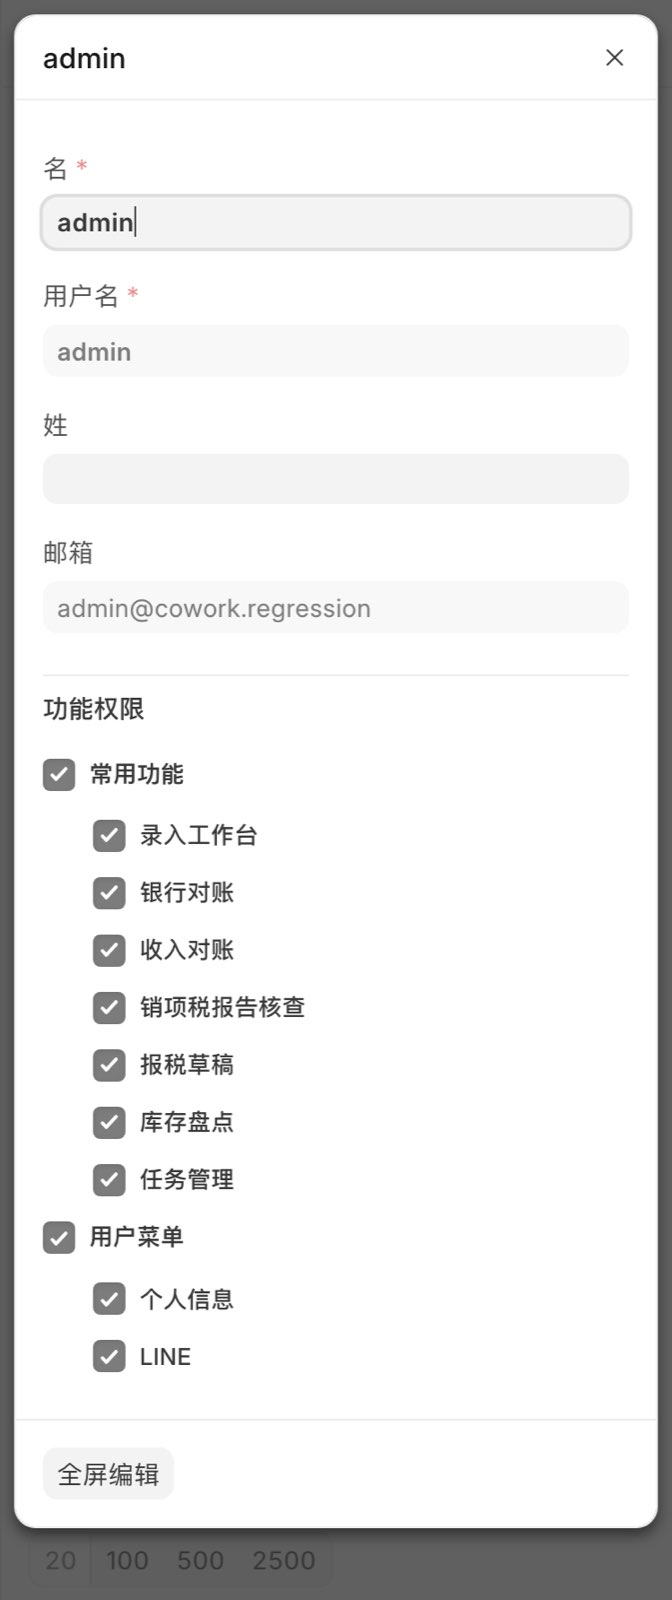
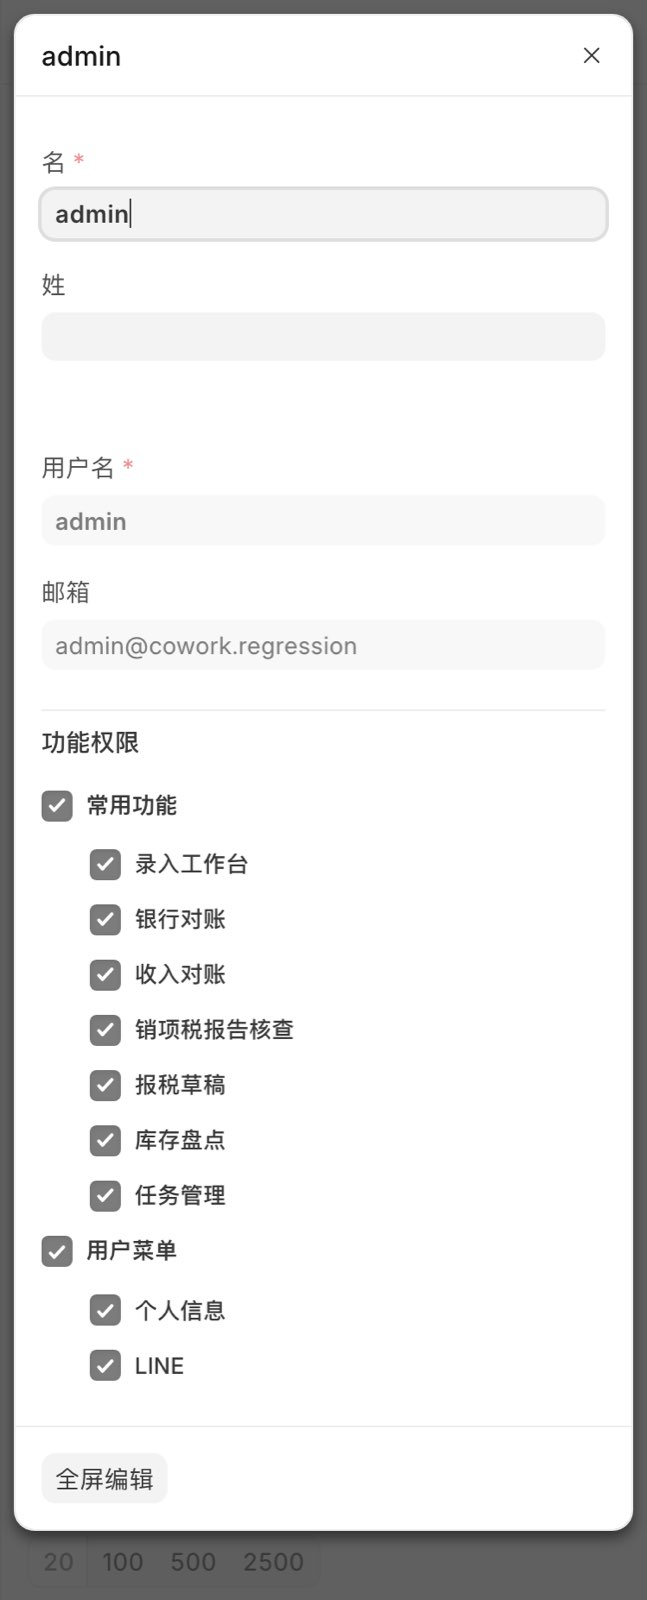
fix: the add user dialog keeps each pair in its own borderless section so phones stack first and last name, then username and password; the layout check now requires side by side pairs to stay adjacent when stacked

diff --git a/apps/pearnly_erp_portal/pearnly_erp_portal/public/desk/team.js b/apps/pearnly_erp_portal/pearnly_erp_portal/public/desk/team.js
@@ -199,18 +199,24 @@
 			const shown_companies = locked ? (data.companies || []).map(c => c.value) : row?.companies || [];
 			let dialog;
 			const fields = [
-				// 两栏成行（用户 10-31）：名 | 姓，用户名 | 初始密码；邮箱放右栏末尾——编辑时没有密码，左右仍各两格（11-01）
+				// 两栏成行（用户 10-31）：名 | 姓，用户名 | 初始密码（编辑时是 用户名 | 邮箱），邮箱在下。
+				// 每一对各占一节（无边框）：手机上叠成单列时也是名、姓、用户名、密码挨着（11-01 真机验收：原来名姓被拆开）。
 				// 姓名（用户 10-30：分清是哪个人）：名必填、姓可空，全站显示人名用它
 				field("first_name", "First Name", "Data", { reqd: 1, default: row?.first_name || "" }),
+				{ fieldtype: "Column Break" },
+				field("last_name", "Last Name", "Data", { default: row?.last_name || "" }),
+				{ fieldtype: "Section Break", hide_border: 1 },
 				// 用户名：**英文和数字**（用户 2026-09-24 的口径），是登录名（和邮箱一样能登）。
 				// 长度不设限；服务端还会再按"只允许英文数字 + 不重名"挡一次。
 				field("username", "Username", "Data",
 					{ reqd: 1, read_only: is_new ? 0 : 1, default: row?.username || "" }),
 				{ fieldtype: "Column Break" },
-				field("last_name", "Last Name", "Data", { default: row?.last_name || "" }),
-				...(is_new ? [field("password", "team.password", "Password", { reqd: 1 })] : []),
+				...(is_new ? [field("password", "team.password", "Password", { reqd: 1 }),
+					{ fieldtype: "Section Break", hide_border: 1 }] : []),
 				field("email", "team.email", "Data",
 					{ options: "Email", read_only: is_new ? 0 : 1, default: row?.email || "" }),
+				// 新建时邮箱单独一行：补一栏空的，宽度与上面两行的左栏一样（同 `p.field_grid` 的做法）
+				...(is_new ? [{ fieldtype: "Column Break" }] : []),
 				...roles_fields(shown_roles, () => dialog),
 				{fieldtype: "Section Break"},
 				...company_search_field(),

diff --git a/apps/pearnly_cowork/pearnly_cowork/public/desk/team.js b/apps/pearnly_cowork/pearnly_cowork/public/desk/team.js
@@ -126,16 +126,22 @@
 			const shown_roles = locked ? data.roles.map(role => role.name) : row?.roles || [];
 			let dialog;
 			const fields = [
-				// 两栏成行（用户 10-31）：名 | 姓，用户名 | 初始密码；邮箱放右栏末尾——编辑时没有密码，左右仍各两格（11-01）
+				// 两栏成行（用户 10-31）：名 | 姓，用户名 | 初始密码（编辑时是 用户名 | 邮箱），邮箱在下。
+				// 每一对各占一节（无边框）：手机上叠成单列时也是名、姓、用户名、密码挨着（11-01 真机验收：原来名姓被拆开）。
 				// 姓名（用户 10-30）：名必填、姓可空，全站显示人名用它
 				field("first_name", __("First Name"), "Data", { reqd: 1, default: row?.first_name || "" }),
+				{ fieldtype: "Column Break" },
+				field("last_name", __("Last Name"), "Data", { default: row?.last_name || "" }),
+				{ fieldtype: "Section Break", hide_border: 1 },
 				field("username", __("Username"), "Data",
 					{ reqd: 1, read_only: is_new ? 0 : 1, default: row?.username || "" }),
 				{ fieldtype: "Column Break" },
-				field("last_name", __("Last Name"), "Data", { default: row?.last_name || "" }),
-				...(is_new ? [field("password", t("cowork.team.password"), "Password", { reqd: 1 })] : []),
+				...(is_new ? [field("password", t("cowork.team.password"), "Password", { reqd: 1 }),
+					{ fieldtype: "Section Break", hide_border: 1 }] : []),
 				field("email", t("cowork.team.email"), "Data",
 					{ options: "Email", read_only: is_new ? 0 : 1, default: row?.email || "" }),
+				// 新建时邮箱单独一行：补一栏空的，宽度与上面两行的左栏一样（同 `p.field_grid` 的做法）
+				...(is_new ? [{ fieldtype: "Column Break" }] : []),
 				...roles_fields(shown_roles, () => dialog),
 			];
 			for (const item of fields) {

diff --git a/scripts/check-form-layout.py b/scripts/check-form-layout.py
@@ -13,7 +13,8 @@ docs/work/2026-11-01-form-layout-audit.md：每栏放一类、各栏长度接近
 报哪几类（按 Section 算；隐藏字段不算；行高按字段类型估：多行文本、表格算多行，带说明的加一点，带 depends_on 的算半格）：
 - `columns`：一个 Section 超过三栏（电脑宽每栏太窄、手机上又拉得很长）；
 - `balance`：两栏以上、最长一栏比最短一栏多出 LIMIT 行以上；
-- `pair`：成对字段（名 | 姓、用户名 | 密码、起 | 止）既不在同一行、也不在同一栏里上下挨着（中间夹了别的格、或分在两节）。
+- `pair`：成对字段（名 | 姓、用户名 | 密码、起 | 止）既不是同一栏上下挨着，也不是「左栏最后一格 | 右栏第一格」并排
+  （并排的一对要单独成一节，手机上叠成单列后才挨着）。
 
 存量登记在 scripts/form-layout-baseline.json（每条写原因）：**只许减少**；修掉一条后用 `--update` 删掉它。
 条件展开（`...(新建 ? [...] : [])`）按「展开」算，因为新建那一屏最满。
@@ -348,8 +349,12 @@ def problems(form_sections):
                     top += height([item])
         if a in where and b in where:
             (sa, ca, ta, pa), (sb, cb, tb, pb) = where[a], where[b]
-            # 同一行（左右两栏同高）或同一栏上下挨着都算一对（个人信息页姓在名下面，是用户 10-31 定的）
-            ok = sa == sb and ((ca != cb and abs(ta - tb) < 0.5) or (ca == cb and abs(pa - pb) == 1))
+            # 同一栏上下挨着算一对（个人信息页姓在名下面，是用户 10-31 定的）；左右并排的，还要手机上叠成单列后挨着：
+            # 前一格是左栏最后一格、后一格是右边那栏第一格（11-01 真机验收：添加用户名姓并排，手机上中间夹了用户名）
+            cols = form_sections[sa] if sa == sb else []
+            (first, cf, pf), (second, cs, ps) = sorted([(a, ca, pa), (b, cb, pb)], key=lambda x: (x[1], x[2]))
+            beside = (sa == sb and cs == cf + 1 and abs(ta - tb) < 0.5 and pf == len(cols[cf]) - 1 and ps == 0)
+            ok = beside or (sa == sb and ca == cb and abs(pa - pb) == 1)
             if not ok:
                 found.append((f"pair:{a}|{b}", sa, f"{a} | {b} not on one row"))
     return found

diff --git a/tests/test_check_form_layout.py b/tests/test_check_form_layout.py
@@ -26,17 +26,31 @@ def problems(source):
 
 
 class FormLayout(unittest.TestCase):
-    def test_balanced_two_columns_pass(self):
+    def test_pairs_each_in_own_section_pass(self):
         forms, found = problems("""
             p.dialog(__("New"), [
                 {fieldtype: "Data", fieldname: "first_name", label: "First"},
+                {fieldtype: "Column Break"},
+                {fieldtype: "Data", fieldname: "last_name"},
+                {fieldtype: "Section Break", hide_border: 1},
+                {fieldtype: "Data", fieldname: "username"},
+                {fieldtype: "Column Break"},
+                {fieldtype: "Password", fieldname: "password"},
+            ]);""")
+        self.assertEqual(len(forms), 1)
+        self.assertEqual(found, [])
+
+    def test_side_by_side_pair_split_on_phone(self):
+        # 电脑宽名 | 姓同一行，但左栏名下面还有用户名：手机上叠成单列是名、用户名、姓
+        _, found = problems("""
+            p.dialog(__("New"), [
+                {fieldtype: "Data", fieldname: "first_name"},
                 {fieldtype: "Data", fieldname: "username"},
                 {fieldtype: "Column Break"},
                 {fieldtype: "Data", fieldname: "last_name"},
                 {fieldtype: "Password", fieldname: "password"},
             ]);""")
-        self.assertEqual(len(forms), 1)
-        self.assertEqual(found, [])
+        self.assertEqual(found, ["pair:first_name|last_name::0", "pair:username|password::0"])
 
     def test_unbalanced_and_split_pair(self):
         _, found = problems("""

diff --git a/docs/work/2026-11-01-form-layout-audit.md b/docs/work/2026-11-01-form-layout-audit.md
@@ -78,7 +78,7 @@
 | 控制面 | 充值审核 | **改**：两个多行备注挤在右栏（127 / 370px） |
 | 控制面 | 钱包 | **改**：按一类分（余额 \| 本月用量） |
 | 控制面 | 开户目标、开通进度、订阅、台账 | 齐，不改 |
-| 共用 | 手机宽弹窗（三栏、两栏都有） | **改**：中间栏两边缩 15px、第一栏右边短 15px（Frappe 手机规则只照顾两栏） |
+| 共用 | 手机宽弹窗（三栏、两栏都有） | **改**：中间栏两边缩 15px、第一栏右边短 15px（Frappe 手机规则只照顾两栏；真机验收记的「左栏输入框比右栏窄 15px」就是它） |
 
 没截到的：Cowork 任务看板电脑宽两次都卡住超时（页面不含分栏表单，静态清单里它的弹窗都齐或已登记）；
 LINE 绑定块（实验室没接 LINE 频道，不出二维码）；收银台 POS 的官方弹窗（框架自带，未改）。
@@ -145,7 +145,7 @@ LINE 绑定块（实验室没接 LINE 频道，不出二维码）；收银台 PO
 | --- | --- | --- | --- |
 | ERP 新建公司 / 公司信息 | `pearnly_erp_portal/public/desk/company.js` | 左七格右五格 453 / 309px；新建页地址、备注单栏落在最底下，详情页是基本信息下面两栏 | 左公司与税务（名称 / 简称 / 税号 / 查询 / 分支 / 增值税），右联系与收款再是公司类型、接 Express（详情页是 Logo）382 / 380px；地址 \| 备注两页都紧跟在下面 |
 | ERP 公司 Express 一节 | 同上 | 账套、同步时间 \| 状态、原因、待写退货（最多二比四） | 账套 \| 同步时间，状态 \| 原因；待写退货放短的那一栏 |
-| ERP / Cowork 添加 / 编辑用户 | `pearnly_erp_portal/public/desk/team.js`、`pearnly_cowork/public/desk/team.js` | 编辑时左名 / 用户名 / 邮箱、右只有姓 199 / 55px | 名 \| 姓、用户名 \| 初始密码，邮箱在右栏末尾；编辑 127 / 127px，新建 126 / 197px |
+| ERP / Cowork 添加 / 编辑用户 | `pearnly_erp_portal/public/desk/team.js`、`pearnly_cowork/public/desk/team.js` | 编辑时左名 / 用户名 / 邮箱、右只有姓 199 / 55px；手机宽叠成「名 / 用户名 / 邮箱 / 姓 / 密码」（11-01 真机验收 `2026-11-01-post-deploy-device-tests.md` 第 4 节） | 每一对各占一节（无边框）：名 \| 姓、用户名 \| 初始密码（编辑时 用户名 \| 邮箱）、邮箱；各行 55 / 55px，手机宽是 名、姓、用户名、密码、邮箱 |
 | ERP 供应商、客户弹窗 | `suppliers.js`、`clients.js` | 名称、电话、税号…（电话夹在名称与税号之间） | 名称（类型）/ 税号 / 查询 / 分支，再电话 / 地址 / 备注 |
 | ERP 采购单 供应商一节 | `purchase-fields.js` | 左供应商 / 税号 / 地址、右分支类型 209 / 55px | 左供应商 / 地址，右税号 / 分支 138 / 126px |
 | ERP 采购单 税费一节 | 同上 | 左三格右五格 167 / 344px | 左（含税）/ 净额 / 折扣 / 尾差，右税额 / 预扣 / 合计 / 应付 239 / 272px |
